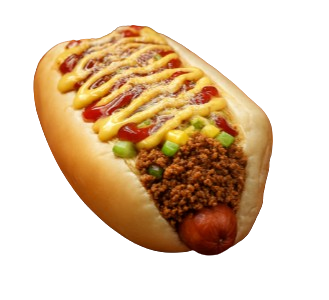
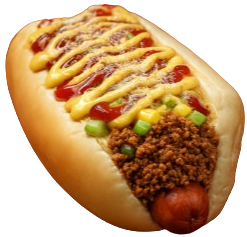
Atualizando imagens

diff --git a/html-css/praticando/cardapiov2/index.html b/html-css/praticando/cardapiov2/index.html
@@ -83,7 +83,7 @@
     <section class="item-pai">
         <div class="card-pai">
             <div class="card-image">
-                <img class="fotosanduba" src="imagens/lanches/especialgrandec.png">
+                <img class="fotosanduba-especial" src="imagens/lanches/especial4grande.png">
             </div>
 
             <div class="card-conteudo">
@@ -136,7 +136,7 @@
     <section class="item-pai">
         <div class="card-pai">
             <div class="card-image">
-                <img class="fotosanduba"
+                <img class="fotosanduba-especial"
                     src="https://bing.com/th/id/BCO.6614432f-37cc-4f4a-b0d0-a8374cd7cf25.png">
             </div>
 
@@ -243,7 +243,7 @@
         <div class="card-pai">
             <div class="card-image">
                 <img class="fotosanduba"
-                    src="https://encrypted-tbn0.gstatic.com/images?q=tbn:ANd9GcQ0BfCtfn9H3hiFEp4fMcYVnQi-waU3Aj0wqg&s">
+                    src="imagens/lanches/passaportefrango.png">
             </div>
 
             <div class="card-conteudo">
@@ -291,7 +291,7 @@
         <div class="card-pai">
             <div class="card-image">
                 <img class="fotosanduba"
-                    src="https://encrypted-tbn0.gstatic.com/images?q=tbn:ANd9GcQ0BfCtfn9H3hiFEp4fMcYVnQi-waU3Aj0wqg&s">
+                    src="imagens/lanches/passaportecarnesol.png">
             </div>
 
             <div class="card-conteudo">

diff --git a/html-css/praticando/cardapiov2/style.css b/html-css/praticando/cardapiov2/style.css
@@ -244,11 +244,17 @@ header {
 
 /* CONTROLE DE IMAGENS, SANDUICHES, BEBIDAS, AÇAI... */
 .fotosanduba {
-    width: 100%;
-    height: 70%;
+    width: 80%;
     border-radius: 10px;
-    margin-left: 10px;
-    
+    object-fit: cover;
+    display: block;
+}
+
+.fotosanduba-especial {
+    width: 100%;
+    border-radius: 10px;
+    object-fit: cover;
+    display: block;
 }
 
 
@@ -256,7 +262,9 @@ header {
     display: flex;
     justify-content: center;
     align-items: center;
-    width: 200px;
+    width: 50%;
+    height: 100%;
+    overflow: hidden;
 }
 
 
